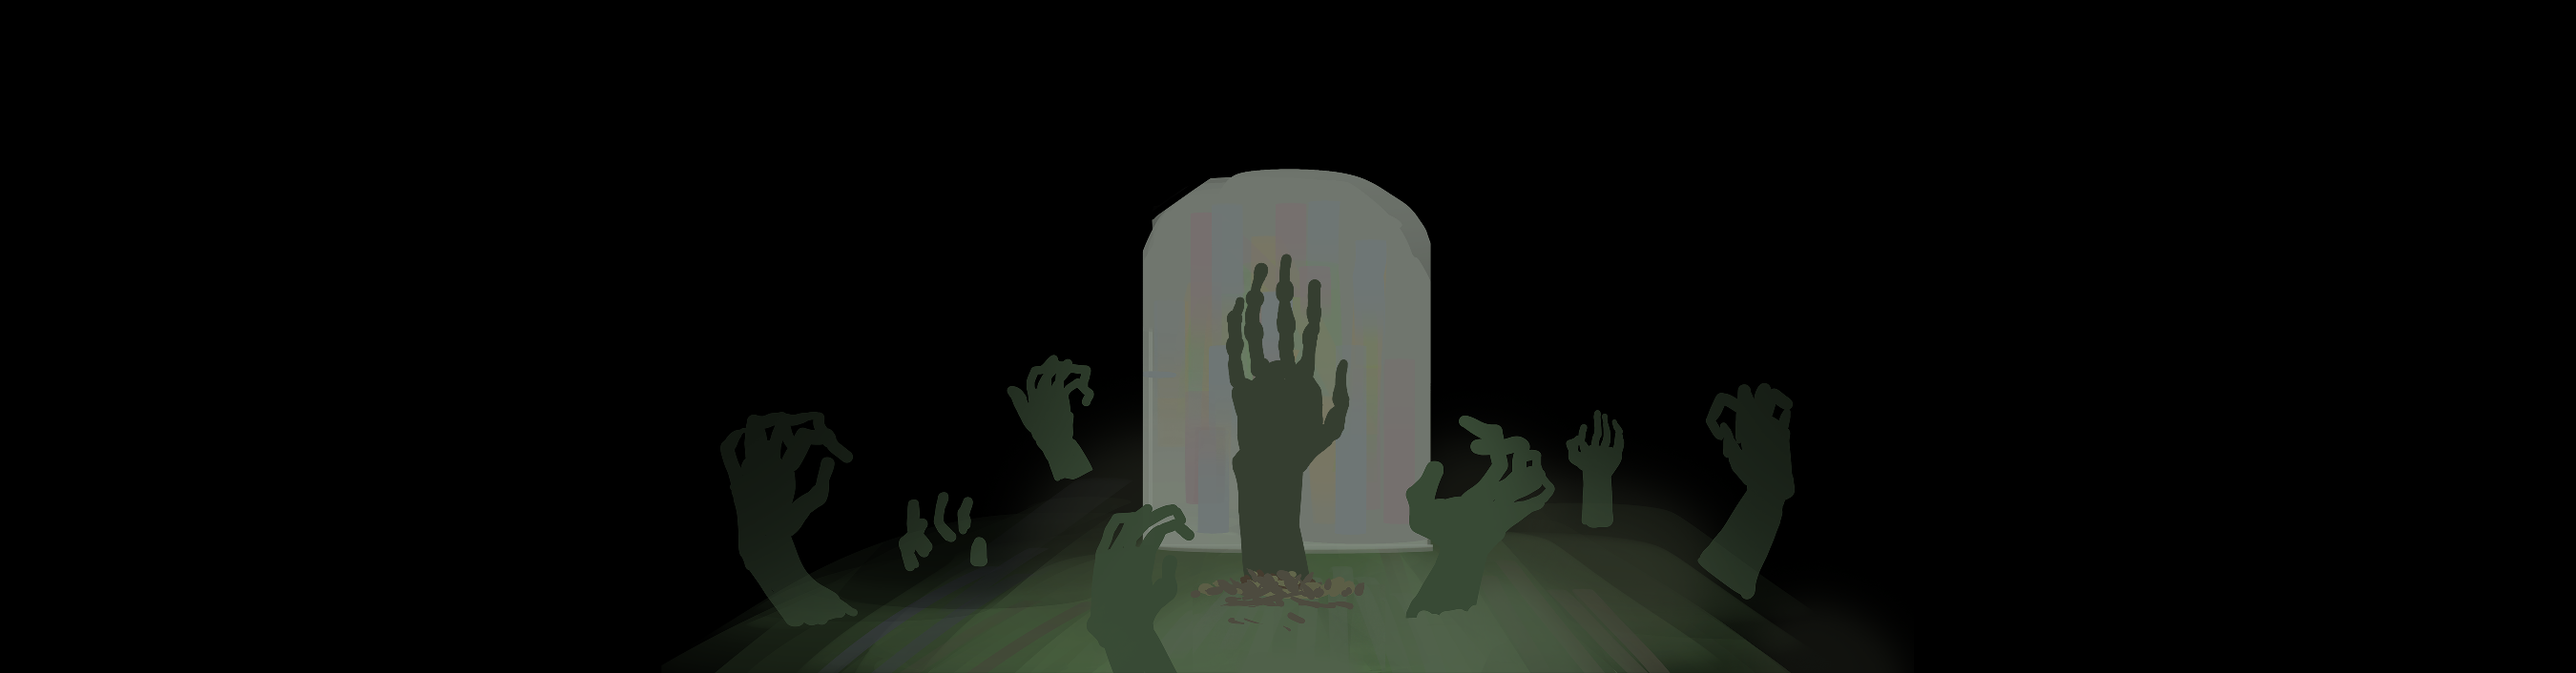
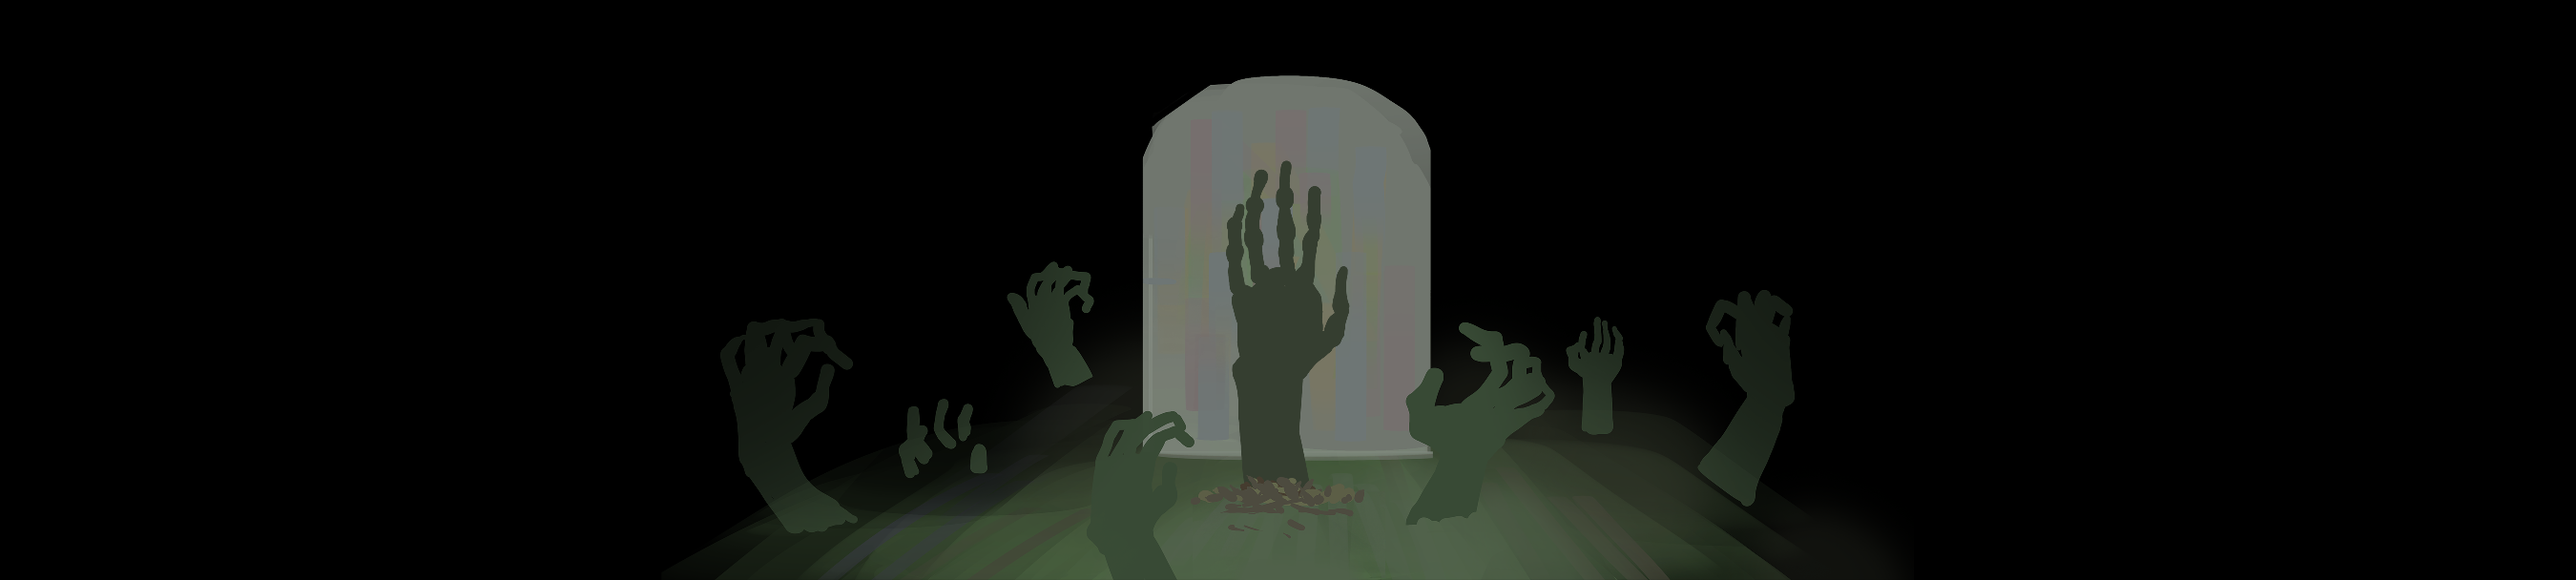
Finished up website

diff --git a/index.html b/index.html
@@ -32,6 +32,7 @@
         h5,
         h6 {
             font-family: 'Mulish', sans-serif;
+            color: #1a0000;
         }
 
         a {
@@ -57,7 +58,7 @@
         }
 
         .parallax-img-1 {
-            background-image: url(images/test_image.png);
+            background-image: url(images/header.png);
             min-height: 100vh;
         }
 
@@ -198,7 +199,11 @@
         <div class="body-inner-border">
             <div class="body-container">
                 <h1 class="center">ABOUT ME</h1>
-                <p class="center">Hi! I'm Christopher Martens, a Digital Simulation and Gaming Engineering Technology major at Shawnee State University. I am additionally pursuing a math minor. I currently work as a math tutor at Shawnee State University's Dayton duMeleau Math Center. I expect to graduate in May of 2024, and am looking for an internship for the summer of 2023. Below you can find some projects I've worked on, and you can download a copy of my resume from the upper right corner of the page.</p>
+                <p class="center">Hi! I'm Christopher Martens, a Digital Simulation and Gaming Engineering Technology
+                    major at Shawnee State University. I am additionally pursuing a math minor. I currently work as a
+                    math tutor at Shawnee State University's Dayton duMeleau Math Center. I expect to graduate in May of
+                    2024, and am looking for an internship for the summer of 2023. Below you can find some projects I've
+                    worked on, and you can download a copy of my resume from the upper right corner of the page.</p>
             </div>
         </div>
     </div>
